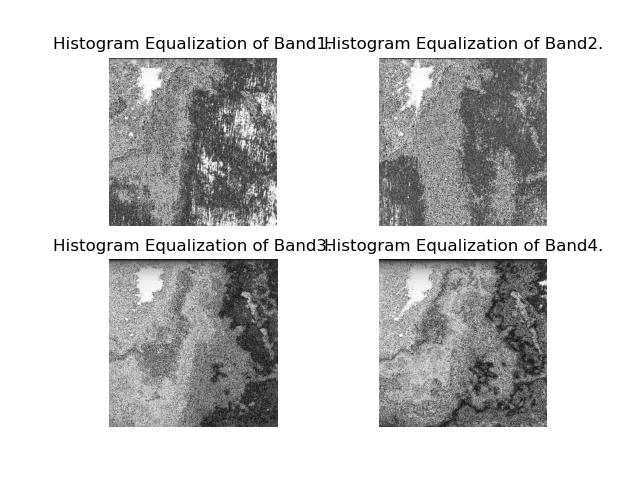
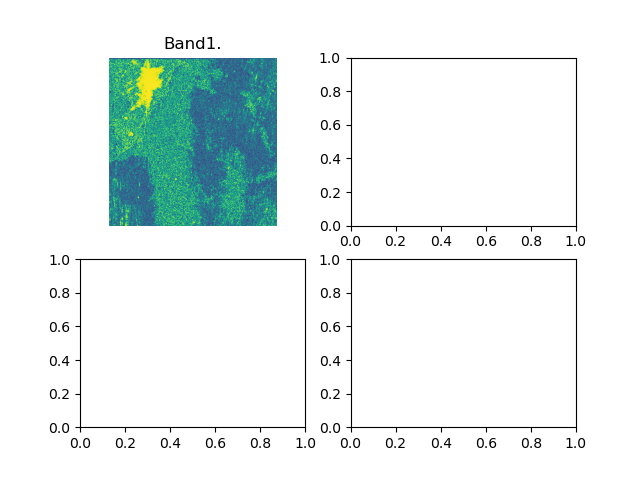
Optimize Histogram Equalization.

diff --git a/Assignments/Assignment 3/Equalization.py b/Assignments/Assignment 3/Equalization.py
@@ -132,26 +132,45 @@ def calculate_S_Value_WithSmax(cdf_arr):
         result.append(int(round(cdf_arr[i] * smax)))
     return result
 
-def HistogramEqualization(r_arr, s_arr, oneD_Band):
-    oneD_Band_length = len(oneD_Band)    
-    for i, item in enumerate(r_arr):
-        for j in range(oneD_Band_length):
-            if item == oneD_Band[j]:
-                oneD_Band[j] = s_arr[i]
-    return oneD_Band
+def HistogramEqualization(band_1d):
+    result, r_values, absolute_values, relative_values, CDF_values, s_values = ([], [], [], [], [], [])    
+    
+    result = Counter(band_1d)
+    r_values = list(result.keys())
+    absolute_values = list(result.values())
+    
+    absolute_values_length = len(absolute_values)
+    for i in range(absolute_values_length):
+        relative_values.append((absolute_values[i] / (rows * cols)))
+        if i == 0:            
+            CDF_values.append(relative_values[i])
+        else:
+            CDF_values.append(CDF_values[i-1] + relative_values[i])
+        s_values.append(CDF_values[i] * smax)
+    
+    print('Replacing start')
+    band_1d_length = len(band_1d)
+    for j, item in enumerate(r_values):
+        for k in range(band_1d_length):
+            if item == band_1d[k]:
+                band_1d[k] = s_values[j]
+    print(band_1d)
+    return band_1d
 
-# fig, ((ax1, ax2), (ax3, ax4)) = plt.subplots(2, 2)
-# 
+fig, ((ax1, ax2), (ax3, ax4)) = plt.subplots(2, 2)
+
 # r_band1 = find_Unique_Value(band1_1d)
 # absoluteOccurence_band1 = find_Absolute_Occurence_OfValue(r_band1, band1_1d)
 # relativeOccurence_band1 = find_Relative_Occurence_OfValue(absoluteOccurence_band1)
 # CDF_band1 = calculate_CDF_Value(relativeOccurence_band1)
 # s_band1 = calculate_S_Value_WithSmax(CDF_band1)
-# hist_equ_band1 = np.asarray(HistogramEqualization(r_band1, s_band1, band1_1d)).reshape(rows,cols)
-# ax1.imshow(hist_equ_band1, aspect= 'equal', cmap= cm.get_cmap(name='gray'))
-# ax1.set_title('Histogram Equalization of Band1.')
-# ax1.axis('off')
-# print('band1')
+hist_equ_band1 = np.asarray(HistogramEqualization(band2_1d)).reshape(rows, cols)
+ax1.imshow(hist_equ_band1, aspect= 'equal')
+ax1.set_title('Band1.')
+ax1.axis('off')
+print('band1')
+plt.savefig("HistogramEqualization.png")
+plt.show()
 # 
 # r_band2 = find_Unique_Value(band2_1d)
 # absoluteOccurence_band2 = find_Absolute_Occurence_OfValue(r_band2, band2_1d)
